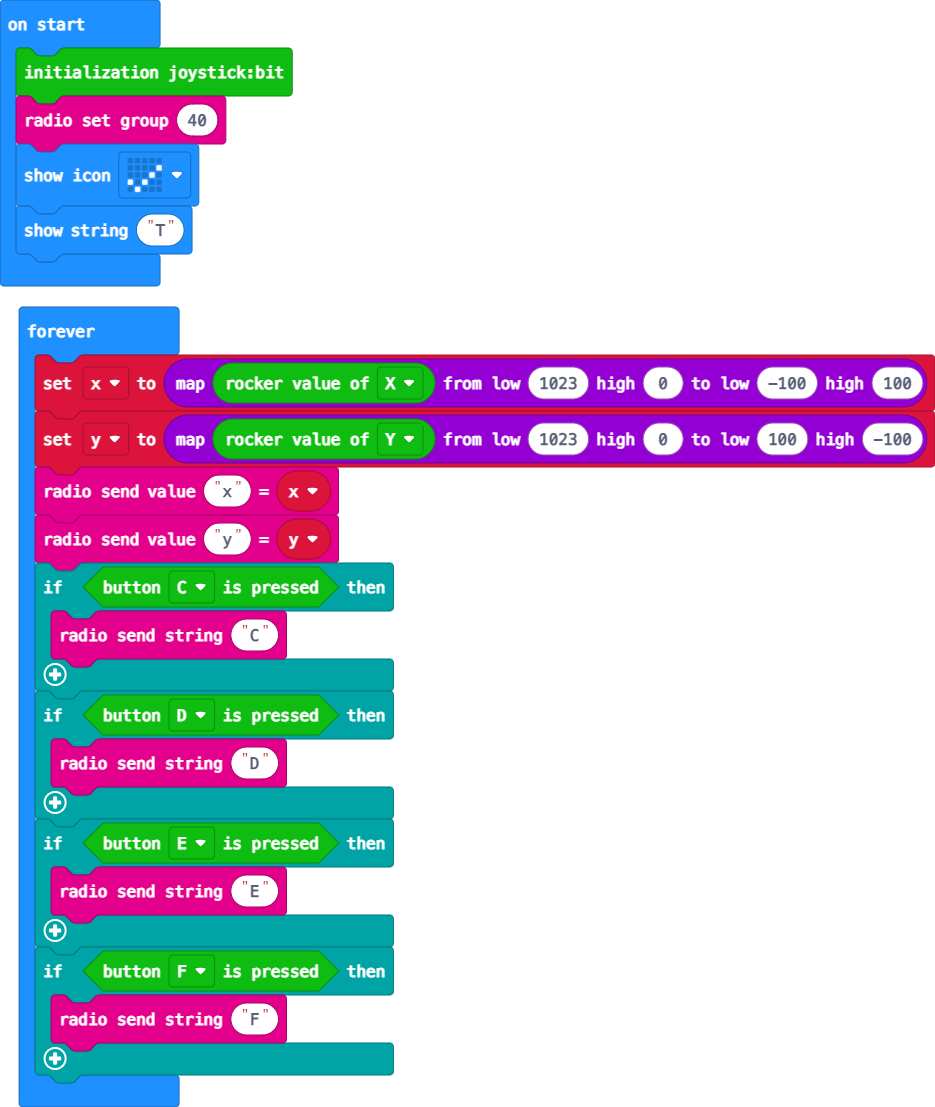
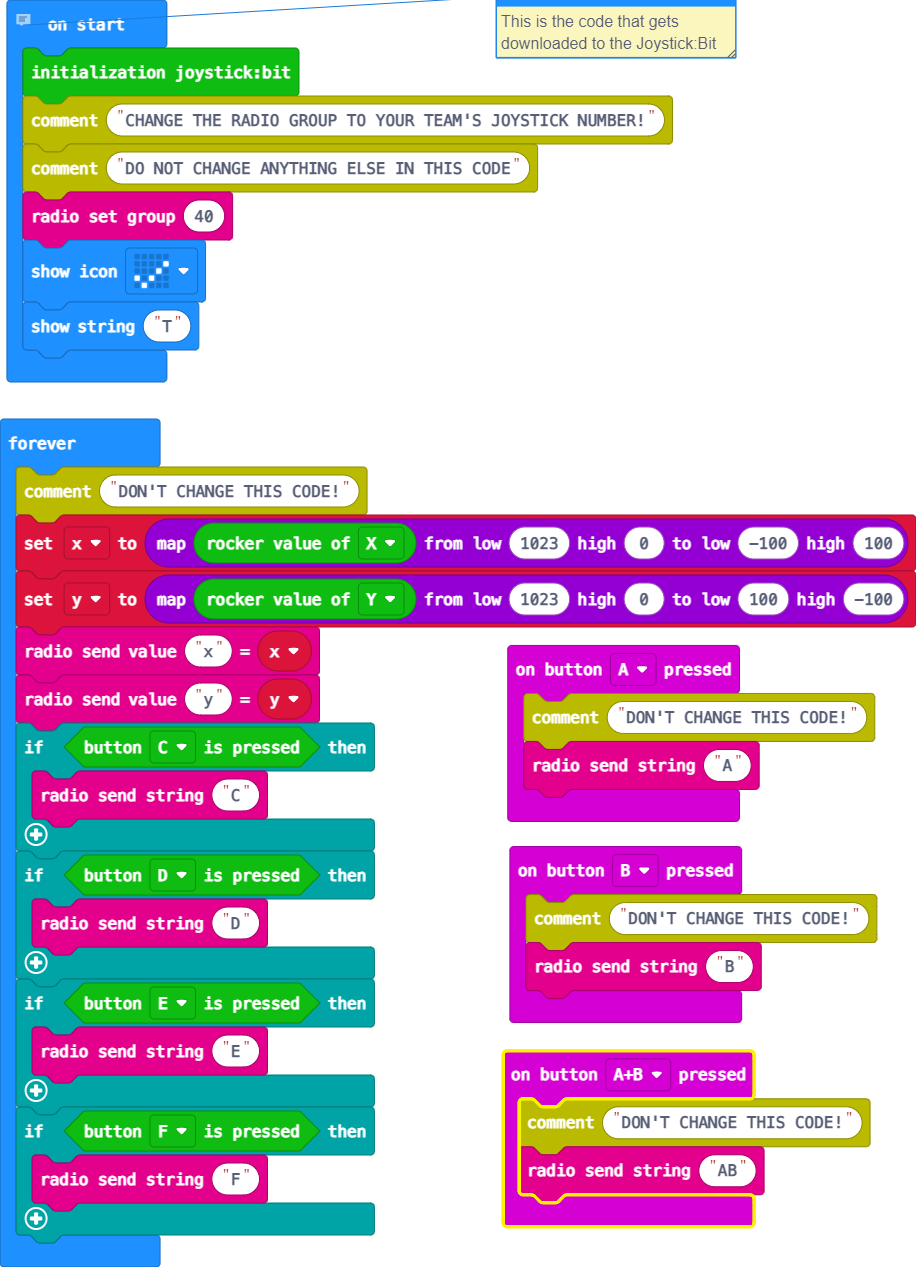
Update pxt.json, main.blocks, main.ts

diff --git a/main.ts b/main.ts
@@ -1,10 +1,26 @@
+input.onButtonPressed(Button.A, function () {
+    comment.comment("DON'T CHANGE THIS CODE!")
+    radio.sendString("A")
+})
+input.onButtonPressed(Button.AB, function () {
+    comment.comment("DON'T CHANGE THIS CODE!")
+    radio.sendString("AB")
+})
+input.onButtonPressed(Button.B, function () {
+    comment.comment("DON'T CHANGE THIS CODE!")
+    radio.sendString("B")
+})
+// This is the code that gets downloaded to the Joystick:Bit
 let y = 0
 let x = 0
 joystickbit.initJoystickBit()
+comment.comment("CHANGE THE RADIO GROUP TO YOUR TEAM'S JOYSTICK NUMBER!")
+comment.comment("DO NOT CHANGE ANYTHING ELSE IN THIS CODE")
 radio.setGroup(40)
 basic.showIcon(IconNames.Yes)
 basic.showString("T")
 basic.forever(function () {
+    comment.comment("DON'T CHANGE THIS CODE!")
     x = Math.map(joystickbit.getRockerValue(joystickbit.rockerType.X), 1023, 0, -100, 100)
     y = Math.map(joystickbit.getRockerValue(joystickbit.rockerType.Y), 1023, 0, 100, -100)
     radio.sendValue("x", x)
